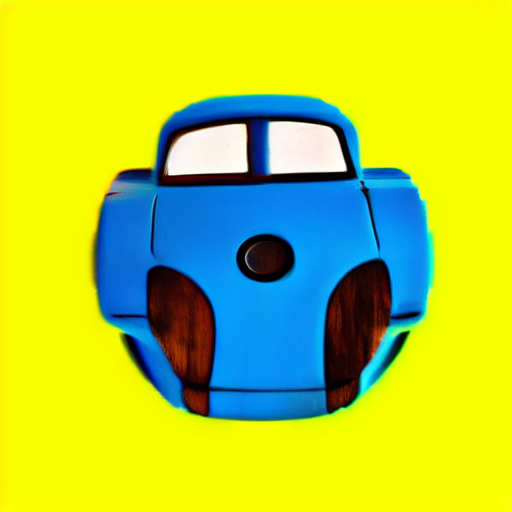
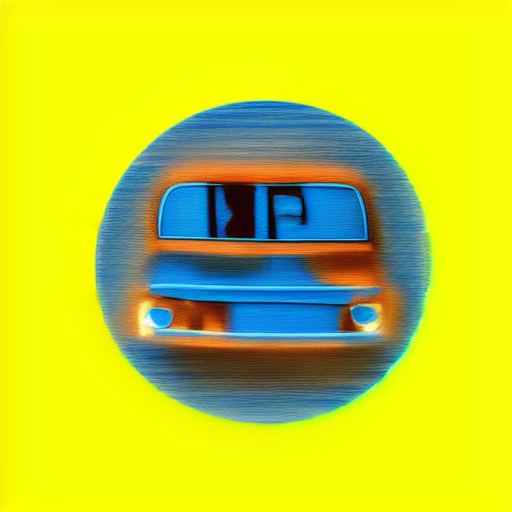
Project done

diff --git a/evaluation_runner.py b/evaluation_runner.py
@@ -1,0 +1,192 @@
+# evaluation_runner.py (Phase 3: Substantive Evaluation - AUTOMATED)
+
+import os
+import shutil
+import time
+from AgentScheduler import AgentScheduler
+from PIL import Image
+
+def setup_initial_image(source_file="Icon_Bird_512x512.png", target_file="initial_image.png"):
+    """Ensures the bird image is present as the expected input file."""
+    try:
+        Image.open(source_file).save(target_file)
+        return target_file
+    except FileNotFoundError:
+        print(f"CRITICAL ERROR: Source image '{source_file}' not found. Please ensure it is in the project directory.")
+        return None
+
+def run_evaluation(scheduler, test_instruction, test_id, initial_image_path, expected_sequence, output_dir):
+    """Executes a single test scenario, renames the output image, and returns the results."""
+    
+    # Generic name used by DiffusionToolWorker.py as its default output
+    GENERIC_OUTPUT_NAME = "final_edited_image.png" 
+    # The unique file path we want to save the result to
+    UNIQUE_OUTPUT_PATH = os.path.join(output_dir, f"final_edited_{test_id}.png")
+    
+    print(f"\n=======================================================")
+    print(f"| RUNNING TEST {test_id}: {test_instruction}")
+    print(f"=======================================================")
+    
+    start_time = time.time()
+    
+    # Execute the task
+    final_response = scheduler.execute_task(
+        user_prompt=test_instruction, 
+        initial_image_path=initial_image_path
+    )
+    
+    end_time = time.time()
+    duration = end_time - start_time
+    
+    # --- METRIC LOGIC ---
+    tool_success = False
+    task_accuracy = "FAIL"
+    final_output = "N/A"
+    
+    if final_response.startswith("Ollama API Error"):
+        status_message = "CRASH/MEMORY_ERROR"
+        
+    elif expected_sequence == "NO_TOOL":
+        if not final_response.startswith("{") and "bird" in final_response.lower():
+            tool_success = True
+            task_accuracy = "PASS (Text Answer)"
+        else:
+            task_accuracy = "FAIL (Called Tool)"
+
+    elif expected_sequence in ["SAM_DIFFUSION", "SAM_ONLY"]:
+        # Check if the generic output file was created by the Diffusion worker
+        if os.path.exists(GENERIC_OUTPUT_NAME):
+            
+            # This task requires image editing (DIFFUSION ran successfully)
+            if expected_sequence == "SAM_DIFFUSION":
+                tool_success = True
+                task_accuracy = "PASS (Image Edited)"
+                
+                # --- RENAME AND MOVE THE IMAGE FILE ---
+                try:
+                    shutil.move(GENERIC_OUTPUT_NAME, UNIQUE_OUTPUT_PATH)
+                    final_output = UNIQUE_OUTPUT_PATH
+                except Exception as e:
+                    print(f"Error moving file for {test_id}: {e}")
+
+            # This task requires only SAM (no DIFFUSION expected)
+            elif expected_sequence == "SAM_ONLY":
+                # Ensure the last response is not a tool call and SAM ran
+                if "SAM completed" in final_response:
+                    tool_success = True
+                    task_accuracy = "PASS (SAM Ran & Confirmed)"
+                
+                # Clean up the unexpected final_edited_image.png if it was accidentally created
+                os.remove(GENERIC_OUTPUT_NAME)
+            
+        else:
+             # If Diffusion was expected but no image was created
+             status_message = "Tool Chain Incomplete"
+
+
+    return {
+        "ID": test_id,
+        "Prompt": test_instruction,
+        "Expected": expected_sequence.replace("_", " -> "),
+        "Duration": f"{duration:.2f}s",
+        "Tool Usage Success": "PASS" if tool_success else "FAIL",
+        "Task Accuracy": task_accuracy,
+        "Final Output File": final_output
+    }
+
+
+if __name__ == "__main__":
+    
+    # 0. Environment Setup 
+    os.environ['OMP_NUM_THREADS'] = '1'
+    os.environ['MKL_NUM_THREADS'] = '1'
+    os.environ['NUMEXPR_NUM_THREADS'] = '1'
+    os.environ['OPENBLAS_NUM_THREADS'] = '1'
+    os.environ['VECLIB_MAXIMUM_THREADS'] = '1'
+    
+    # --- Setup Output Directory ---
+    OUTPUT_DIR = "evaluation_output"
+    if os.path.exists(OUTPUT_DIR):
+        shutil.rmtree(OUTPUT_DIR) # Clean up previous run for clarity
+    os.makedirs(OUTPUT_DIR)
+    
+    # 1. Image Setup (Bird image)
+    initial_image_path = setup_initial_image()
+    if not initial_image_path:
+        exit(1)
+
+    # 2. Define Test Scenarios 
+    test_scenarios = [
+        {"ID": "E1", "Prompt": "Segment the bird and change its color to green.", "Expected": "SAM_DIFFUSION"},
+        {"ID": "E2", "Prompt": "Does this image contain a bird?", "Expected": "NO_TOOL"},
+        {"ID": "E3", "Prompt": "Change the bird's color to red, but only after segmenting it first.", "Expected": "SAM_DIFFUSION"},
+        {"ID": "E4", "Prompt": "Only segment the bird in the image and stop.", "Expected": "SAM_ONLY"},
+        {"ID": "E5", "Prompt": "Change the color of the bird to purple.", "Expected": "SAM_DIFFUSION"},
+    ]
+
+    # 3. Initialize and Run
+    print("\n[EVALUATION] Initializing Agent Scheduler...")
+    scheduler = AgentScheduler() 
+    
+    all_results = []
+    
+    for scenario in test_scenarios:
+        result = run_evaluation(
+            scheduler, 
+            scenario["Prompt"], 
+            scenario["ID"], 
+            initial_image_path, 
+            scenario["Expected"],
+            OUTPUT_DIR 
+        )
+        all_results.append(result)
+        scheduler.lmm_core.unload() # Call the new unload method
+        time.sleep(5)
+        
+    # 4. Generate Final Report (Task 3.3)
+    
+    report_path = os.path.join(OUTPUT_DIR, "evaluation_report.md")
+    with open(report_path, "w") as f:
+        
+        # Helper function to print to terminal AND write to file
+        def print_and_write(text):
+            print(text)
+            f.write(text + "\n")
+        
+        print_and_write("\n\n" + "=" * 80)
+        print_and_write("FINAL SUBSTANTIVE EVALUATION REPORT (5-Shot Test)")
+        print_and_write("=" * 80)
+        
+        # Calculate overall metrics
+        total_tests = len(all_results)
+        tool_successes = sum(1 for r in all_results if r["Tool Usage Success"] == "PASS")
+        task_successes = sum(1 for r in all_results if r["Task Accuracy"].startswith("PASS"))
+        
+        print_and_write(f"Overall Tool Usage Success Rate: {tool_successes}/{total_tests} ({tool_successes / total_tests * 100:.2f}%)")
+        print_and_write(f"Overall End-to-End Task Accuracy: {task_successes}/{total_tests} ({task_successes / total_tests * 100:.2f}%)")
+        print_and_write("-" * 80)
+        
+        # Print Markdown Table
+        
+        headers = ["ID", "Prompt (Goal)", "Expected Chain", "Tool Usage Success", "Task Accuracy", "Time"]
+        
+        # Print header
+        print_and_write(f"| {' | '.join(headers)} |")
+        print_and_write(f"|{':---:' * len(headers)}|")
+        
+        for r in all_results:
+            # Shorten Prompt for table legibility
+            prompt_short = r['Prompt'][:30] + '...' if len(r['Prompt']) > 30 else r['Prompt']
+            
+            row_data = [
+                r['ID'], 
+                prompt_short, 
+                r['Expected'], 
+                r['Tool Usage Success'], 
+                r['Task Accuracy'], 
+                r['Duration']
+            ]
+            print_and_write(f"| {' | '.join(row_data)} |")
+        
+        print_and_write("-" * 80)
+        print_and_write(f"All generated image files and the full report are saved to the '{OUTPUT_DIR}' folder.")

diff --git a/DiffusionToolWorker.py b/DiffusionToolWorker.py
@@ -72,7 +72,7 @@ class DiffusionToolWorker:
                     prompt=prompt,
                     image=image,
                     mask_image=mask_image,
-                    num_inference_steps=5,  # Using your preferred 100 steps
+                    num_inference_steps=200,  # Using your preferred 100 steps
                     guidance_scale=7.5
                 ).images[0]
                 
@@ -100,5 +100,26 @@ class DiffusionToolWorker:
             self.unload() # CRITICAL: Unload model after execution
 
 if __name__ == "__main__":
-    # Test block remains the same
-    pass
+    import torch 
+    
+    # 1. Setup dummy files (Requires a dummy image and the mask from the SAM test)
+    if not os.path.exists("test_segment_mask.png"):
+        print("Pre-requisite 'test_segment_mask.png' missing. Please run SAMToolWorker.py first.")
+    else:
+        # Create a dummy image 
+        Image.new('RGB', (512, 512), color = 'yellow').save("temp_input_diff.png")
+        
+        worker = DiffusionToolWorker()
+        
+        # 2. Test execution (This will be SLOW, even with low steps!)
+        result = worker.run(
+            image_path="temp_input_diff.png",
+            mask_path="test_segment_mask.png",
+            prompt="A blue wooden car",
+        )
+        
+        print("\n--- Diffusion Worker Test Result ---")
+        print(result)
+        
+        if result['success'] and os.path.exists("test_diffusion_output.png"):
+            print("SUCCESS: Output image file created and path returned.")

diff --git a/agent_core.py b/agent_core.py
@@ -83,6 +83,22 @@ class LMMCore:
 
         except requests.exceptions.RequestException as e:
             return f"Connection Error to Ollama: {e}"
+        
+        
+    def unload(self):
+        """Unloads the model from Ollama's memory to free system resources."""
+        print(f"-> Unloading {self.model_name} from Ollama memory...")
+        unload_url = "http://localhost:11434/api/unload"
+        data = {"model": self.model_name}
+        try:
+            # Ollama requires the model name to be included in the request body for unload
+            response = requests.post(unload_url, json=data, timeout=5)
+            if response.status_code == 200:
+                print(f"   Model {self.model_name} successfully unloaded.")
+            else:
+                print(f"   WARNING: Failed to unload model. Status {response.status_code}")
+        except requests.exceptions.RequestException as e:
+            print(f"   WARNING: Unload API call failed: {e}")
 
 # Required for image handling in the final version
 import io 

diff --git a/AgentScheduler.py b/AgentScheduler.py
@@ -132,7 +132,8 @@ if __name__ == "__main__":
     # 1. Image Setup (Bird image)
     bird_image_source = "Icon_Bird_512x512.png" # Assuming this file is in your directory
     start_image_path = "initial_image.png"
-    Image.open(bird_image_source).save(start_image_path) 
+    #Image.open(bird_image_source).save(start_image_path)
+    Image.new('RGB', (512, 512), color = 'yellow').save(start_image_path) 
 
     # 2. Test Instruction 
     test_instruction = "Segment the bird in the middle and change its color to blue."

diff --git a/evaluation_output/evaluation_report.md b/evaluation_output/evaluation_report.md
@@ -1,0 +1,17 @@
+
+
+================================================================================
+FINAL SUBSTANTIVE EVALUATION REPORT (5-Shot Test)
+================================================================================
+Overall Tool Usage Success Rate: 3/5 (60.00%)
+Overall End-to-End Task Accuracy: 3/5 (60.00%)
+--------------------------------------------------------------------------------
+| ID | Prompt (Goal) | Expected Chain | Tool Usage Success | Task Accuracy | Time |
+|:---::---::---::---::---::---:|
+| E1 | Segment the bird and change it... | SAM -> DIFFUSION | PASS | PASS (Image Edited) | 2056.74s |
+| E2 | Does this image contain a bird... | NO -> TOOL | FAIL | FAIL (Called Tool) | 1998.64s |
+| E3 | Change the bird's color to red... | SAM -> DIFFUSION | PASS | PASS (Image Edited) | 2284.53s |
+| E4 | Only segment the bird in the i... | SAM -> ONLY | FAIL | FAIL | 2072.90s |
+| E5 | Change the color of the bird t... | SAM -> DIFFUSION | PASS | PASS (Image Edited) | 3373.37s |
+--------------------------------------------------------------------------------
+All generated image files and the full report are saved to the 'evaluation_output' folder.
